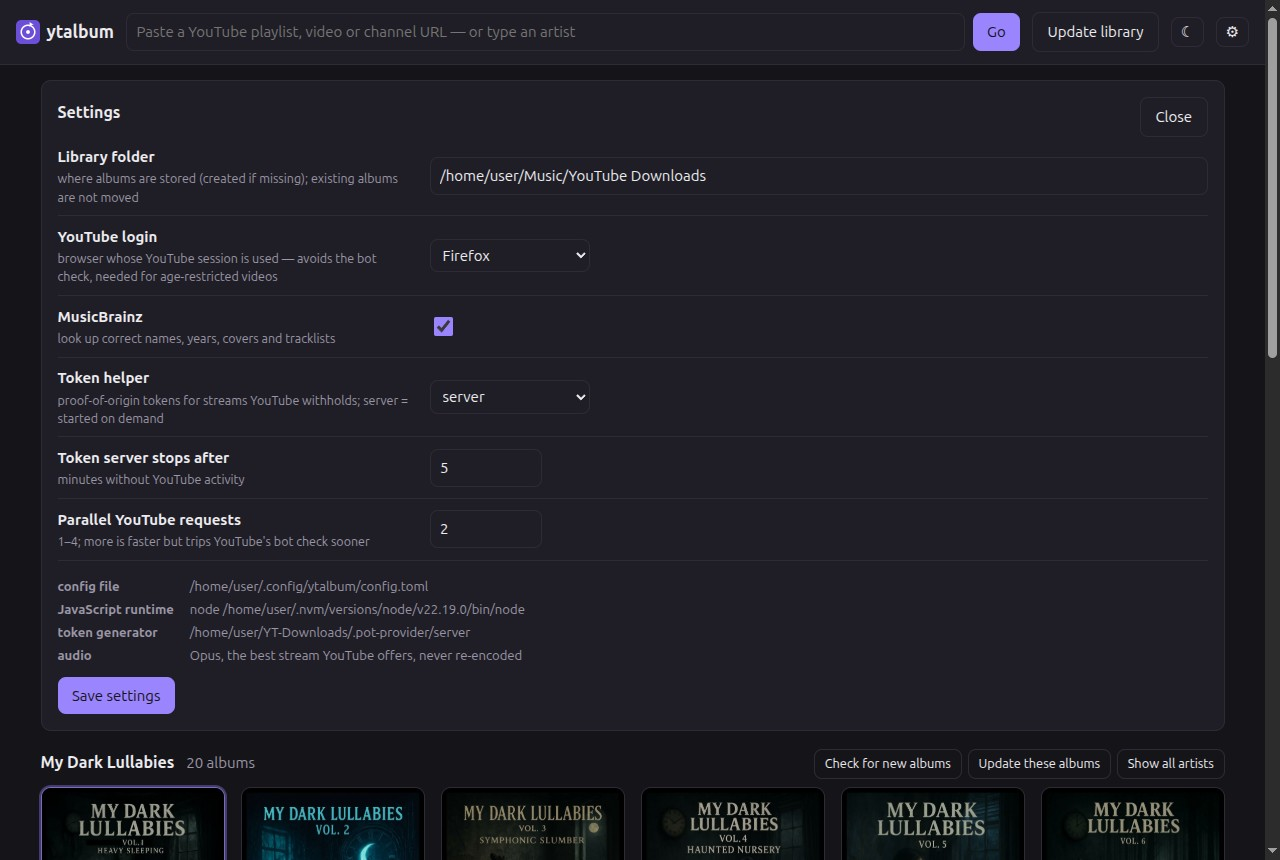
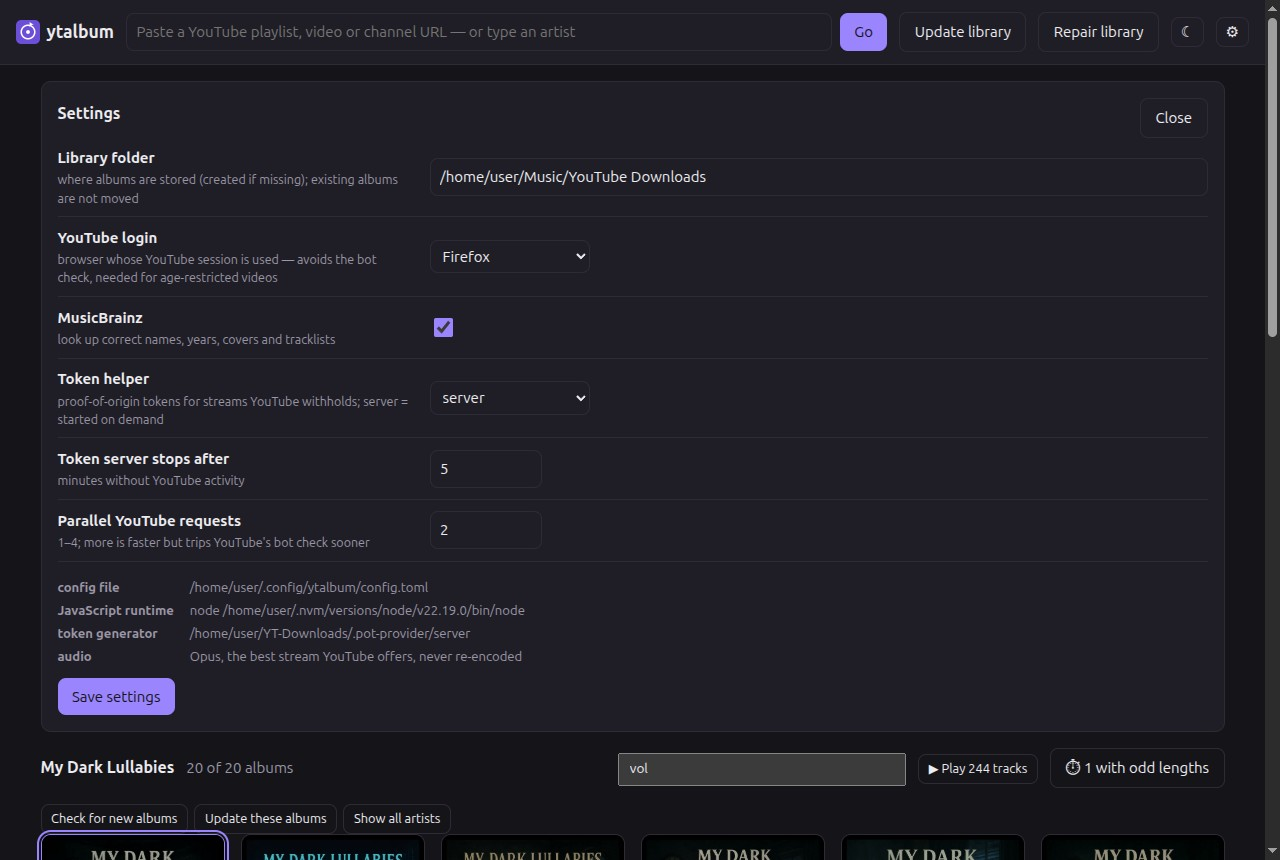
Screenshots retaken on the finished code
All four from the installed service and the real library, read-only, showing My
Dark Lullabies only:

- library.jpg 1920×1080 — the artist view, the filter in use with its matches
  highlighted, ▶ Play 244 tracks, the ⏱ filter, and "Repair library" in the header.
- album.jpg 1184×1441 — Vol. 8 with the grips, the ⏱ column, the "from" column, a
  readable "you ↺" on the Year and on a track, "Track order is yours", and the
  lyrics panel open on a track with timestamps and its three per-track actions.
- search.jpg 1280×860 — the channel listing, 21 playlists with their track counts
  filled in and "in library" markers.
- settings.jpg 1280×860 — settings over the artist view.

album.jpg is 1184×1441 rather than the old 1185×1142: the album view has grown a
grip column, the lyrics actions and the reset badges, and cropping to the old
height would cut tracks off the album.

The settings capture has the home path rewritten in the DOM before the shot, as the
previous one did — /home/tordt → /home/user in the library field and in the config,
runtime and token-generator lines. Display only; nothing was saved, and the user's
home directory does not belong in a public README.

Also removes docs/screenshots/_probe.jpg and _raw-album.jpg, which my own `git
add -A` swept into 914a22a — the same hazard I had warned the reviewer about. Raw
captures now go to the scratchpad, not into the tree.

Backlog item 9 done, and with it the backlog.

diff --git a/docs/backlog.md b/docs/backlog.md
@@ -136,12 +136,20 @@ missing from the API table, and the lyrics-ownership rule was stated twice. DESI
 untouched; §12 gained the decisions of the day, one line each with its pointer, including the one
 (repair behind a confirm) that lived only in a commit message.
 
-## 9. Retake the screenshots — LAST
+## 9. Retake the screenshots — DONE (P17)
 
 Added 2026-09-26 by the owner. `docs/screenshots/` and the README's images show the UI before the
 lyrics editor, the reset badges, the repair button and the preview states existed. Retake them at
 the same sizes on the final code. Rule, unchanged: every screenshot shows **My Dark Lullabies**
 only — the repo does not display full artist discographies.
+
+**Done:** all four retaken on the finished code from the installed service and the real library,
+read-only, same sizes (`library.jpg` 1920×1080, `search.jpg` and `settings.jpg` 1280×860) except
+`album.jpg`, which is 1184×1441 rather than 1185×1142 because the album view has genuinely grown —
+a grip column, the lyrics panel's three actions, the reset badges. Paths in the settings capture are
+rewritten in the DOM before the shot, as the previous one did: nothing is saved, and the user's home
+directory does not belong in a public README. The first capture found the invisible reset badge
+(fixed in 914a22a) and a second cosmetic defect, reported separately.
 
 ## 10. JavaScript test harness for `app.js` — OPEN, not decided
 
